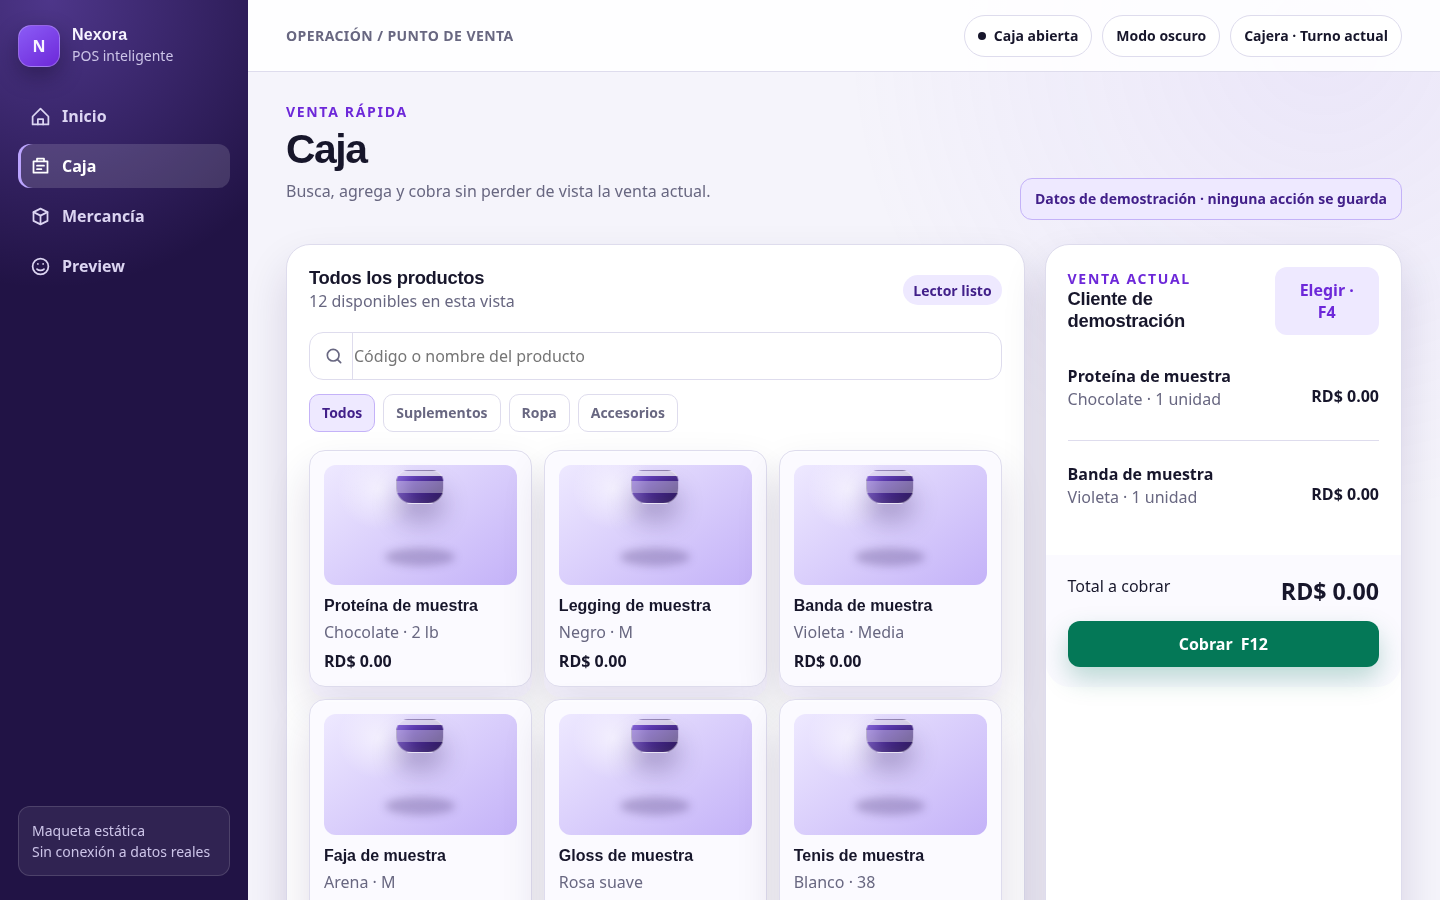
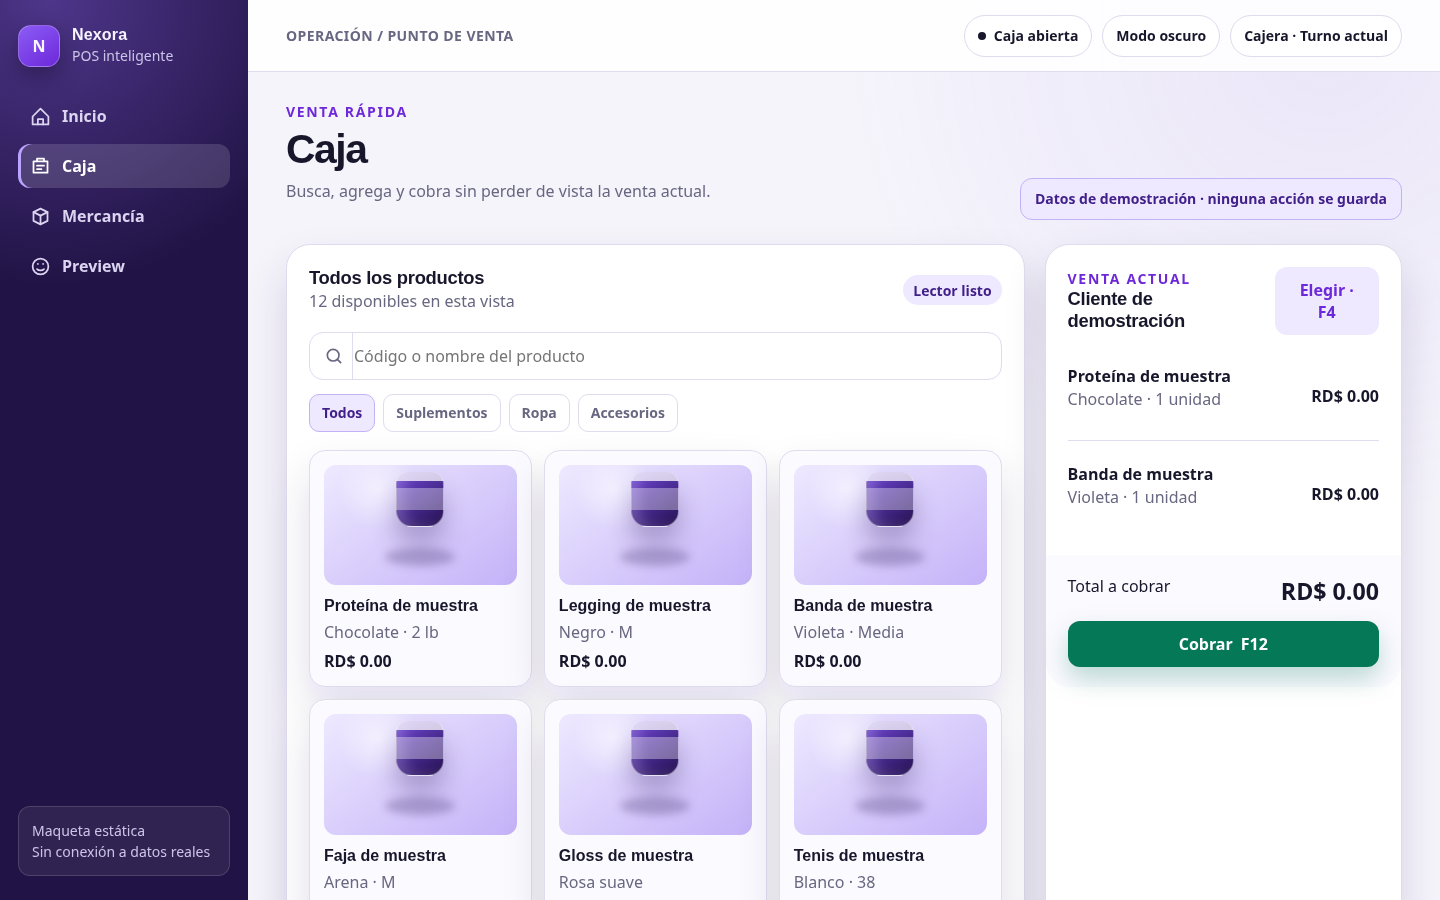
docs: corrige frascos y audita landing del piloto

diff --git a/docs/diseno/maquetas-15nov/styles.css b/docs/diseno/maquetas-15nov/styles.css
@@ -541,10 +541,15 @@ h3 {
 }
 
 .product-visual {
+  --bottle-safe-top: 16px;
+
   position: relative;
   isolation: isolate;
   aspect-ratio: 1.6;
   margin-bottom: 12px;
+  box-sizing: border-box;
+  padding: var(--bottle-safe-top) 0 10px;
+  overflow: hidden;
   display: grid;
   place-items: center;
   border-radius: 12px;
@@ -559,8 +564,9 @@ h3 {
 .product-visual::before {
   content: "";
   width: 46px;
-  height: 64%;
+  height: clamp(54px, 64%, 72px);
   border: 1px solid rgb(255 255 255 / 45%);
+  border-top: 5px solid var(--brand-200);
   border-radius: 12px 12px 16px 16px;
   background:
     linear-gradient(
@@ -855,7 +861,7 @@ td {
 }
 
 .depth-25d .product-visual::before {
-  transform: translateY(-3px);
+  transform: translateY(0);
 }
 
 .depth-3d .main {

diff --git a/docs/venta/contrato/INDICE_REVISION_ABOGADO_16NOV.md b/docs/venta/contrato/INDICE_REVISION_ABOGADO_16NOV.md
@@ -1,0 +1,40 @@
+# Índice de revisión para abogado y dueña
+
+Documento de preparación, **no asesoría legal**. Fecha: 16-nov-2026. El análisis
+existente continúa en `PUNTOS_PARA_ABOGADO.md` y la evidencia revisada en
+`PUNTOS_VERIFICADOS.md`. Este índice no reemplaza esos documentos.
+
+## Prioridad para `[ABOGADO]`
+
+| Tema | Archivo y evidencia | Pregunta que debe cerrar el abogado |
+| --- | --- | --- |
+| NCF/e-CF y responsabilidad fiscal | `PUNTOS_PARA_ABOGADO.md:15`; `01_CONTRATO_SERVICIO_SAAS.md:150`; `05_CONDICIONES_DE_COBRO.md:31-33` | Confirmar la redacción sobre lo que emite la proveedora, lo que emite el cliente y las obligaciones vigentes ante DGII. |
+| Privacidad y encargado | `docs/legal/producto/POLITICA_PRIVACIDAD.md:9,22,34-46`; `02_POLITICA_PRIVACIDAD.md:52-65`; `03_ACUERDO_ENCARGADO_TRATAMIENTO.md:73-91,137-141` | Validar roles, transferencias internacionales, subencargados, avisos de incidentes y plazos de salida. |
+| Cancelación, mora y reembolsos | `01_CONTRATO_SERVICIO_SAAS.md:68-76,218`; `05_CONDICIONES_DE_COBRO.md:53-73` | Validar suspensión, recargo, renovación, créditos/reembolsos y efectos de cancelar. |
+| Responsabilidad y disponibilidad | `docs/legal/producto/TERMINOS_DE_SERVICIO.md:48-55`; `01_CONTRATO_SERVICIO_SAAS.md:128,190`; `06_CONTRATO_LICENCIA_INSTALADO.md:208,238` | Fijar límites válidos, exclusiones y remedios sin prometer más de lo operable. |
+| Aceptación y prueba electrónica | `PUNTOS_PARA_ABOGADO.md:34-38`; `PUNTOS_VERIFICADOS.md:109-118` | Confirmar aceptación en pantalla, Ley 126-02 aplicable, jurisdicción y evidencia que debe conservarse. |
+| IA y proveedor externo | `docs/legal/producto/TERMINOS_DE_SERVICIO.md:33`; `04_TERMINOS_USO_IA_VENTAS.md:25-27`; `06_CONTRATO_LICENCIA_INSTALADO.md:170-182` | Confirmar información al cliente, transferencia, retención y responsabilidad. |
+| Licencia instalada | `PUNTOS_PARA_ABOGADO.md:45-56`; `06_CONTRATO_LICENCIA_INSTALADO.md:122-128,164-174,226-238` | Validar licencia, activación, soporte remoto, cambio de equipo, terminación y datos en la PC. |
+
+## Decisiones separadas para `[DUEÑA]`
+
+1. Identidad legal, RNC, domicilio, dominio y correo
+   (`PUNTOS_PARA_ABOGADO.md:7-11`).
+2. Planes, moneda, tasa, límites y piloto. Hay 17 contradicciones documentadas
+   en `docs/piloto/CONCILIACION_PRECIOS_16NOV.md`.
+3. Canales y horario de soporte (`TERMINOS_DE_SERVICIO.md:37`;
+   `06_CONTRATO_LICENCIA_INSTALADO.md:146-156`).
+4. Plazos comerciales: renovación, aviso, conservación, garantía y
+   disponibilidad; el abogado valida su legalidad después de que la dueña elija.
+5. Si se ofrece nube primero, instalado después, o ambos; el norte del 16-nov
+   prioriza los pilotos de nube.
+
+## Material que se entrega al abogado
+
+- `01_CONTRATO_SERVICIO_SAAS.md` a `06_CONTRATO_LICENCIA_INSTALADO.md`.
+- `PUNTOS_PARA_ABOGADO.md`, `PUNTOS_VERIFICADOS.md` y `FUENTES_LEGALES.md`.
+- `docs/legal/producto/TERMINOS_DE_SERVICIO.md` y
+  `docs/legal/producto/POLITICA_PRIVACIDAD.md`.
+- La decisión comercial final de la dueña por escrito. Sin ella, las marcas
+  `PENDIENTE`, `COMPLETAR` y `NO VERIFICADO` no se rellenan por inferencia.
+

diff --git a/docs/piloto/AUDITORIA_LANDING_CHATGPT_NUBE_16NOV.md b/docs/piloto/AUDITORIA_LANDING_CHATGPT_NUBE_16NOV.md
@@ -1,0 +1,37 @@
+# Auditoría focal de la landing frente a la hoja de precios
+
+Fecha de lectura: **16-nov-2026**. Alcance: solo lectura. Fuente aprobada:
+`docs/venta/HOJA_DE_PRECIOS.md`. Páginas revisadas:
+`apps/landing/precios.html` y `apps/landing/en/pricing.html`.
+
+La página de precios continúa **sin publicar**: ambas versiones conservan
+`noindex, nofollow` y una advertencia que exige orden escrita de la dueña antes
+de enlazarla (`precios.html:6,12`; `en/pricing.html:6,12`).
+
+## Precios y límites visibles
+
+| Concepto | Español | Inglés | Hoja aprobada | ¿Coincide? |
+| --- | --- | --- | --- | --- |
+| Piloto | 60 días (`precios.html:24`) | 60 días (`en/pricing.html:24`) | 60 días sin costo (`HOJA_DE_PRECIOS.md:14`) | Sí |
+| Instalado | US$149; 1 sucursal, hasta 3 cajas; renovación US$39/año (`precios.html:29-34`) | Mismas cifras (`en/pricing.html:31-36`) | US$149 y US$39 (`HOJA_DE_PRECIOS.md:7-8`) | Sí |
+| IA de ventas | US$7/usuario/mes; 10 preguntas/día (`precios.html:37-42`) | Mismas cifras (`en/pricing.html:39-43`) | US$7 y 10/día (`HOJA_DE_PRECIOS.md:9`) | Sí |
+| Facturas con IA | 20/mes; extra US$0.30 (`precios.html:45-47`) | Mismas cifras (`en/pricing.html:46-48`) | 20/mes y US$0.30 (`HOJA_DE_PRECIOS.md:10`) | Sí |
+| Nube Medio | US$69; 1 sucursal, 5 cajas (`precios.html:50-52`) | Mismas cifras (`en/pricing.html:51-53`) | US$69; 1 sucursal, 5 cajas (`HOJA_DE_PRECIOS.md:11`) | Sí |
+| Nube Completo | US$119; 3 sucursales, 10 cajas (`precios.html:55-57`) | Mismas cifras (`en/pricing.html:56-58`) | US$119; 3 sucursales, 10 cajas (`HOJA_DE_PRECIOS.md:12`) | Sí |
+| Instalación opcional | US$75, una laptop (`precios.html:60-62`) | Mismas cifras (`en/pricing.html:61-63`) | US$75, una laptop (`HOJA_DE_PRECIOS.md:13`) | Sí |
+
+## Las tres promesas dudosas
+
+| Promesa | HTML actual | Borrador que aún la contiene | Resultado |
+| --- | --- | --- | --- |
+| NCF/e-CF | Dice que Norexos **no** los emite y que sus recibos no son fiscales (`precios.html:68-71`; `en/pricing.html:69-72`), alineado con `HOJA_DE_PRECIOS.md:18`. | `docs/venta/LANDING_TEXTOS.md:32,42,57-58` promete comprobantes NCF. | HTML correcto; borrador contradictorio, no usar para publicar. |
+| «Sin instalar nada» | La frase no aparece en ningún archivo bajo `apps/landing/`. La página distingue la opción instalada y las opciones nube. | `docs/venta/LANDING_TEXTOS.md:17-18,53-54`. | No está en el HTML; retirar o separar por modalidad en el borrador. |
+| «Precio en RD$» | Declara precios en US$ y solo una referencia aproximada de RD$60 por US$, pendiente de confirmar (`precios.html:24-26`; `en/pricing.html:24-28`). | `docs/venta/LANDING_TEXTOS.md:44`. | HTML correcto; no prometer precio final en RD$ hasta que la dueña fije tasa y moneda. |
+
+## Conclusión
+
+Las dos páginas HTML coinciden entre sí y con la hoja aprobada para las cifras
+mostradas. El riesgo de publicación está en `LANDING_TEXTOS.md`, que conserva
+las tres afirmaciones antiguas. No se cambió ese borrador porque esta tarea era
+de verificación, no de aprobación comercial ni edición de precios.
+

diff --git a/docs/coordinacion/RESULTADOS_CHATGPT_NUBE.md b/docs/coordinacion/RESULTADOS_CHATGPT_NUBE.md
@@ -289,3 +289,29 @@ La carrera requiere que, al mismo tiempo, termine con éxito un cambio o restabl
   hashes idénticos después de esperar la carga de fuentes. Tras generar Prisma
   localmente, `pnpm check` pasó con 123 archivos/1,067 pruebas, typecheck, lint
   y builds web/API (1 archivo/10 pruebas omitidos).
+
+## 2026-11-16 · Nube primero · Caja, landing y revisión legal
+
+- **Rama:** `chatgpt-nube/maquetas-15nov`, actualizada sobre
+  `origin/nexora-cloud` `ccfe0ace584cd8e8d3bd2bb3df471e6a6b88a2c3`.
+- **Caja:** eliminé el desplazamiento negativo que acercaba los frascos al borde,
+  reservé 16 px sobre la tapa y fijé una altura legible de 54 a 72 px. Se
+  regeneraron las 18 capturas y se revisaron las cuatro variantes 2.5D de Caja.
+- **Regresión antes/después:** `verificar.mjs` falló primero con «debe reservar
+  16 px» y «no debe desplazar los frascos»; después pasó junto con el capturador:
+  18 capturas, contraste AA, mínimo 14 px y cero desbordamiento horizontal.
+- **Landing:** `docs/piloto/AUDITORIA_LANDING_CHATGPT_NUBE_16NOV.md` confirma
+  que ambas páginas de precios coinciden con la hoja aprobada. NCF, «sin
+  instalar nada» y «Precio en RD$» solo siguen contradictorios en el borrador
+  `LANDING_TEXTOS.md`; no se editaron páginas ni precios.
+- **Abogado:** `docs/venta/contrato/INDICE_REVISION_ABOGADO_16NOV.md` separa
+  preguntas `[ABOGADO]` de decisiones `[DUEÑA]` y remite a los borradores y
+  fuentes existentes; no es asesoría legal.
+- **Bloqueo:** la segunda búsqueda de fotos espera la lista de filas de Dot.
+- **Límites:** solo documentos y capturas estáticas. Sin despliegue, Render,
+  producción, datos, credenciales, dinero ni cambios bajo `apps/**`.
+- **Control completo:** `pnpm check` pasó: typecheck y ESLint verdes; 123
+  archivos y 1,067 pruebas pasaron, 1 archivo y 10 pruebas se omitieron; builds
+  web/API correctos. Vite emitió su advertencia conocida de chunk mayor de 500 kB.
+- **Publicación/CI:** SHA final y los tres trabajos se registran tras el único
+  push de esta continuación.

diff --git a/docs/diseno/maquetas-15nov/README.md b/docs/diseno/maquetas-15nov/README.md
@@ -46,6 +46,9 @@ una imagen larga compuesta por el navegador.
   movimiento reducido.
 - **Caja y Mercancía 2.5D:** las tarjetas tienen capas y sombras contenidas, con
   siluetas genéricas construidas en CSS; no se usan marcas ni fotos de terceros.
+- **Frascos completos en Caja:** cada silueta reserva 16 px sobre la tapa y ya
+  no usa el desplazamiento negativo de la primera variante 2.5D. La altura se
+  mantiene entre 54 y 72 px para conservar la forma a 1440 y 390 px.
 - **Mercancía guiada:** tres pasos, formulario y tabla a la izquierda, revisión
   persistente a la derecha; en móvil se apilan y la tabla queda desplazable sin
   desbordar la página.
@@ -98,6 +101,10 @@ una imagen larga compuesta por el navegador.
 - Revisión B1/B2: se inspeccionó una captura clara de escritorio y una oscura
   móvil de cada pantalla. La barra móvil queda en el borde inferior del viewport,
   los números de la gráfica son visibles y Cobrar se distingue en verde.
+- Corrección del 16-nov: la regresión nueva falló primero porque no existía el
+  margen seguro de 16 px y Caja aún aplicaba `translateY(-3px)` a los frascos.
+  Después del ajuste, el verificador pasó y se recapturaron las 18 vistas. Se
+  inspeccionaron las cuatro vistas 2.5D de Caja en claro/oscuro y 1440/390.
 - Revisión posterior: el control reprodujo que las capturas móviles anteriores
   medían 390 × 3027, 390 × 2305 y 390 × 1957, y que la barra fija quedaba en
   medio de la imagen larga. Se sustituyeron por capturas de ventana 390 × 844.

diff --git a/docs/coordinacion/RESULTADOS_CHATGPT.md b/docs/coordinacion/RESULTADOS_CHATGPT.md
@@ -326,3 +326,21 @@ Baja `nexora-cloud` y corre con PostgreSQL: `tests/credito-api.test.ts`, `tests/
   ESLint focal pasó; dos reproducciones consecutivas produjeron hashes idénticos.
   Tras generar el cliente Prisma local, `pnpm check` pasó: typecheck, ESLint,
   123 archivos/1,067 pruebas, builds web/API (1 archivo/10 pruebas omitidos).
+
+## 2026-11-16 · ChatGPT NUBE · continuación nube primero
+
+- Corregí en la maqueta de Caja el riesgo de frascos cortados: margen superior
+  explícito de 16 px, sin desplazamiento negativo y altura de 54–72 px. La
+  regresión falló antes por ambas reglas y pasó después; se regeneraron y
+  revisaron las 18 capturas.
+- Verifiqué, sin editar `apps/**`, que las páginas ES/EN de precios coinciden con
+  `HOJA_DE_PRECIOS.md`. Las promesas antiguas sobre NCF, «sin instalar nada» y
+  «Precio en RD$» permanecen solo en `LANDING_TEXTOS.md`.
+- Preparé un índice para abogado separado de las decisiones comerciales de la
+  dueña. No es asesoría legal. La segunda búsqueda de fotos queda bloqueada hasta
+  recibir filas concretas de Dot.
+- Rama `chatgpt-nube/maquetas-15nov`, base incorporada
+  `ccfe0ace584cd8e8d3bd2bb3df471e6a6b88a2c3`; sin despliegue, Render,
+  producción, dinero, datos o credenciales.
+- `pnpm check` pasó con typecheck, ESLint, 123 archivos/1,067 pruebas y builds
+  web/API; 1 archivo/10 pruebas se omitieron por las condiciones existentes.
